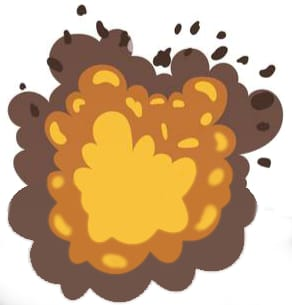
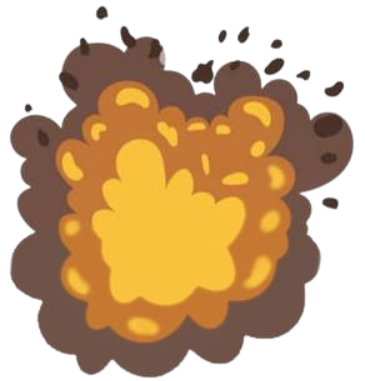
esplosione delle case

diff --git a/gioco.py b/gioco.py
@@ -151,6 +151,7 @@ class Casa:
         self.image_case = image_case
         self.posizione = []
         self.generazione_pos()
+        self.colpita = False
 
     def generazione_pos (self):
         while True:
@@ -184,8 +185,13 @@ class Casa:
     def stampa (self,screen):
         screen.blit(self.image, self.rect.topleft)
     
-
-
+class Esplosione1:
+    def __init__ (self, x, y):
+        self.image = pygame.image.load("immagini/esplosione.png")
+        self.image = pygame.transform.scale(self.image, (80,80))
+        self.rect = pygame.Rect(x,y,80,80)
+    def appare (self,screen):
+        screen.blit(self.image, self.rect.topleft)
     
    
             
@@ -195,30 +201,11 @@ class Casa:
 #-----------------------------------------------------------------            
 
 image_case = {}
-image_case[1]= "immagini/casa 1.png"
-image_case[2]= "immagini/casa 2.png"
-image_case[3]= "immagini/casa 3.png"
+image_case[1]= "immagini/casa11.png"
+image_case[2]= "immagini/casa22.png"
+image_case[3]= "immagini/casa33.png"
 
-# rett = pygame.Surface((90,160))
-# rett.fill("Blue")
-
-# rett1 = pygame.Surface((90,60))
-# rett1.fill("Red")
-
-# rett2 = pygame.Surface((150,100))
-# rett2.fill("Black")
 c_lista = []
-# n_casa = randint(3,4)
-# for i in range(n_casa):
-#     casa = Casa(image_case)
-#     c_lista.append(casa)
-
-    # else:
-    #     casa = Casa(image_case)
-    #     while casa.controllo_coll(casa.rect):
-    #     if not self.controllo_coll(rect):
-    #             self.posizione.append((x, n))
-    #             break
 
 aereo = Aereo (1,0,200,200)
 screen = pygame.display.set_mode((1200,600))
@@ -232,7 +219,11 @@ prova2 = pygame.image.load('immagini/aeroplano.png')
 prova = pygame.transform.scale(prova2, (100, 50))
 prova1 = prova.get_rect()
 
+temp = 0
+e_lista_temp = []
+e_lista = []
 lista_b = []
+
 b_vel_y = 1
 b_vel_x = 1
 vel_x = 2
@@ -240,7 +231,7 @@ vel_y = 0
 acc_x = 0
 acc_y = 0
 b_controllo = False
-
+e_lista_counter = {}
 while True:
     screen.blit(sfondo, (0,0))
 
@@ -290,15 +281,44 @@ while True:
             bomba.stampa(screen)
             if bomba.controllo():  
                 lista_b.remove(bomba)
-            for casa in c_lista:
-                    if bomba.rect.colliderect(casa.rect):
-                       c_lista.remove(casa)
-                       lista_b.remove(bomba)
-            if bomba.rect.y >= 5:
+            
+            for casa_esp in e_lista_temp:  # Controlla solo le case che sono in attesa di essere rimosse
+                casa = casa_esp['casa']
+                if bomba.rect.colliderect(casa.rect):
+                    lista_b.remove(bomba)
+                    break
+            
+            else:
+            
+                for casa in c_lista:
+                        if bomba.rect.colliderect(casa.rect):
+                            casa.colpita = True
+                            esplosione = Esplosione1((bomba.rect.x - 50), bomba.rect.y)
+                            casa_esp_temp = {'casa': casa, 'esplosione': esplosione}
+                            e_lista_temp.append(casa_esp_temp)
+                            e_lista_counter[esplosione] = 0
+                            lista_b.remove(bomba)
+                            break
+
+
+            if bomba.rect.y >= 510:
                 lista_b.remove(bomba)
 
-
     
+    if e_lista_temp:
+        for casa_esp in e_lista_temp:
+            esplosione = casa_esp['esplosione']
+            casa = casa_esp['casa'] 
+            esplosione.appare(screen)
+            e_lista_counter[esplosione] += 1
+
+            if e_lista_counter[esplosione] > 20:
+                c_lista.remove(casa)
+                e_lista_temp.remove(casa_esp)
+
+
+
+
     vel_x = aereo.velx(vel_x, acc_x)
     vel_y = aereo.vely(vel_y, acc_y)
     acc_y = aereo.accy(vel_y, acc_y)
